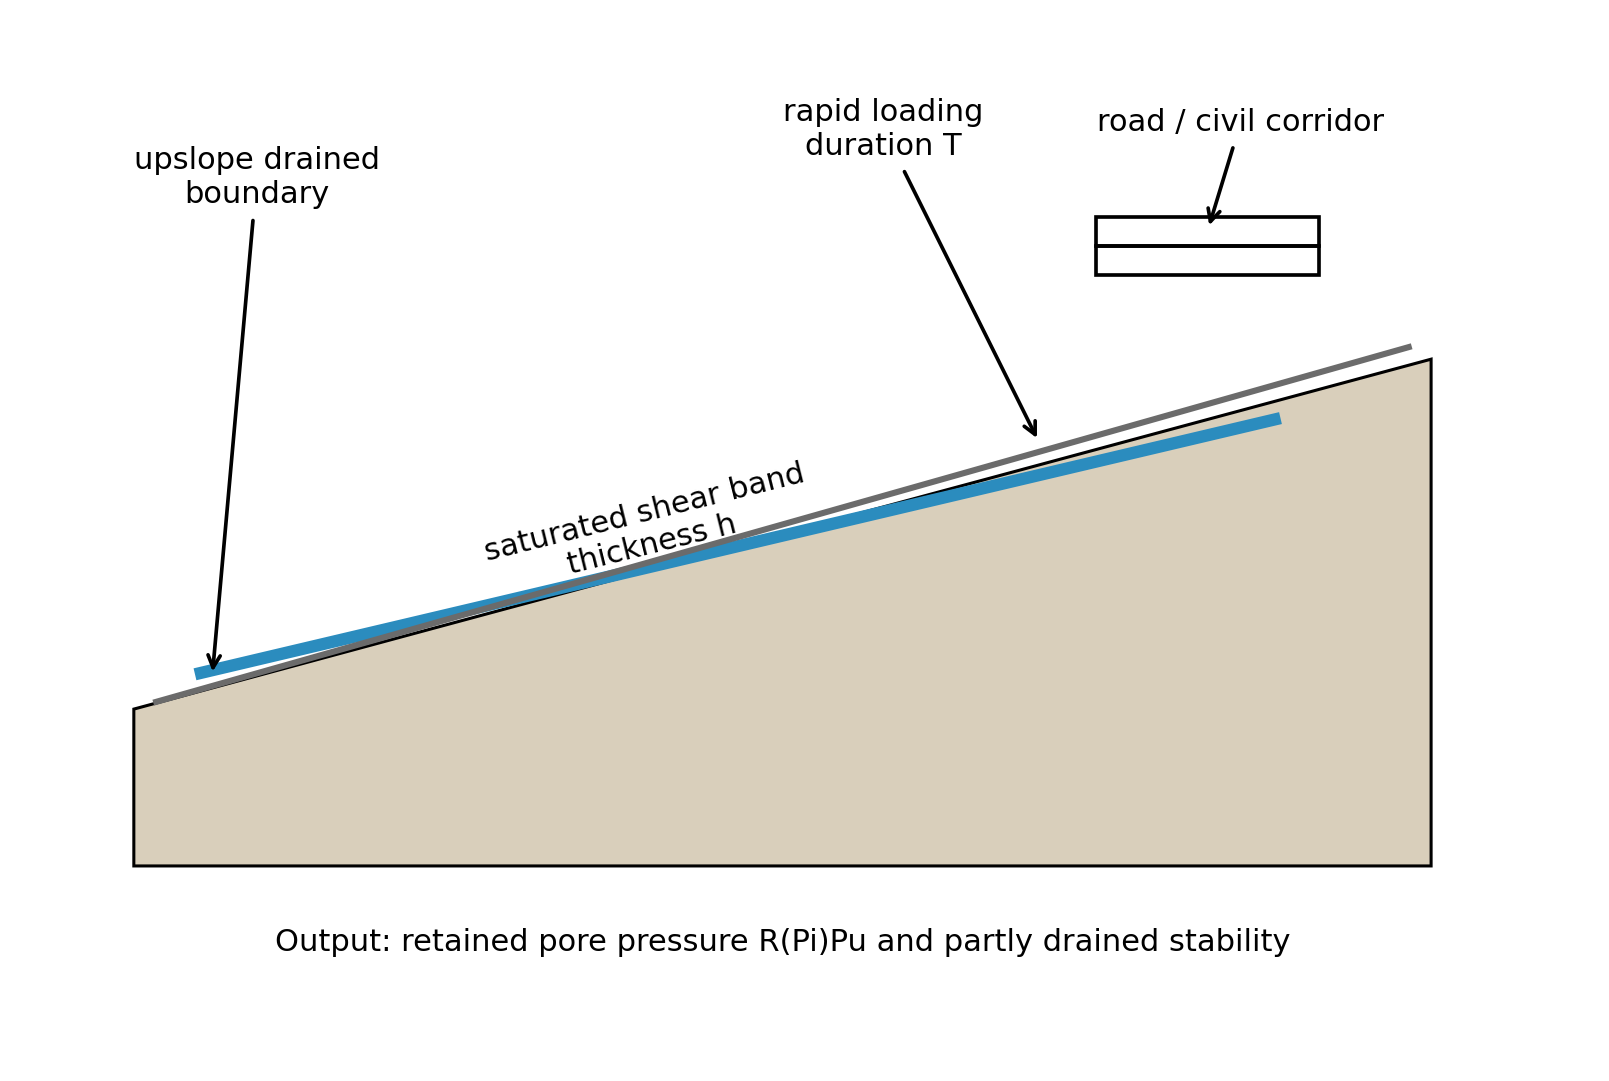
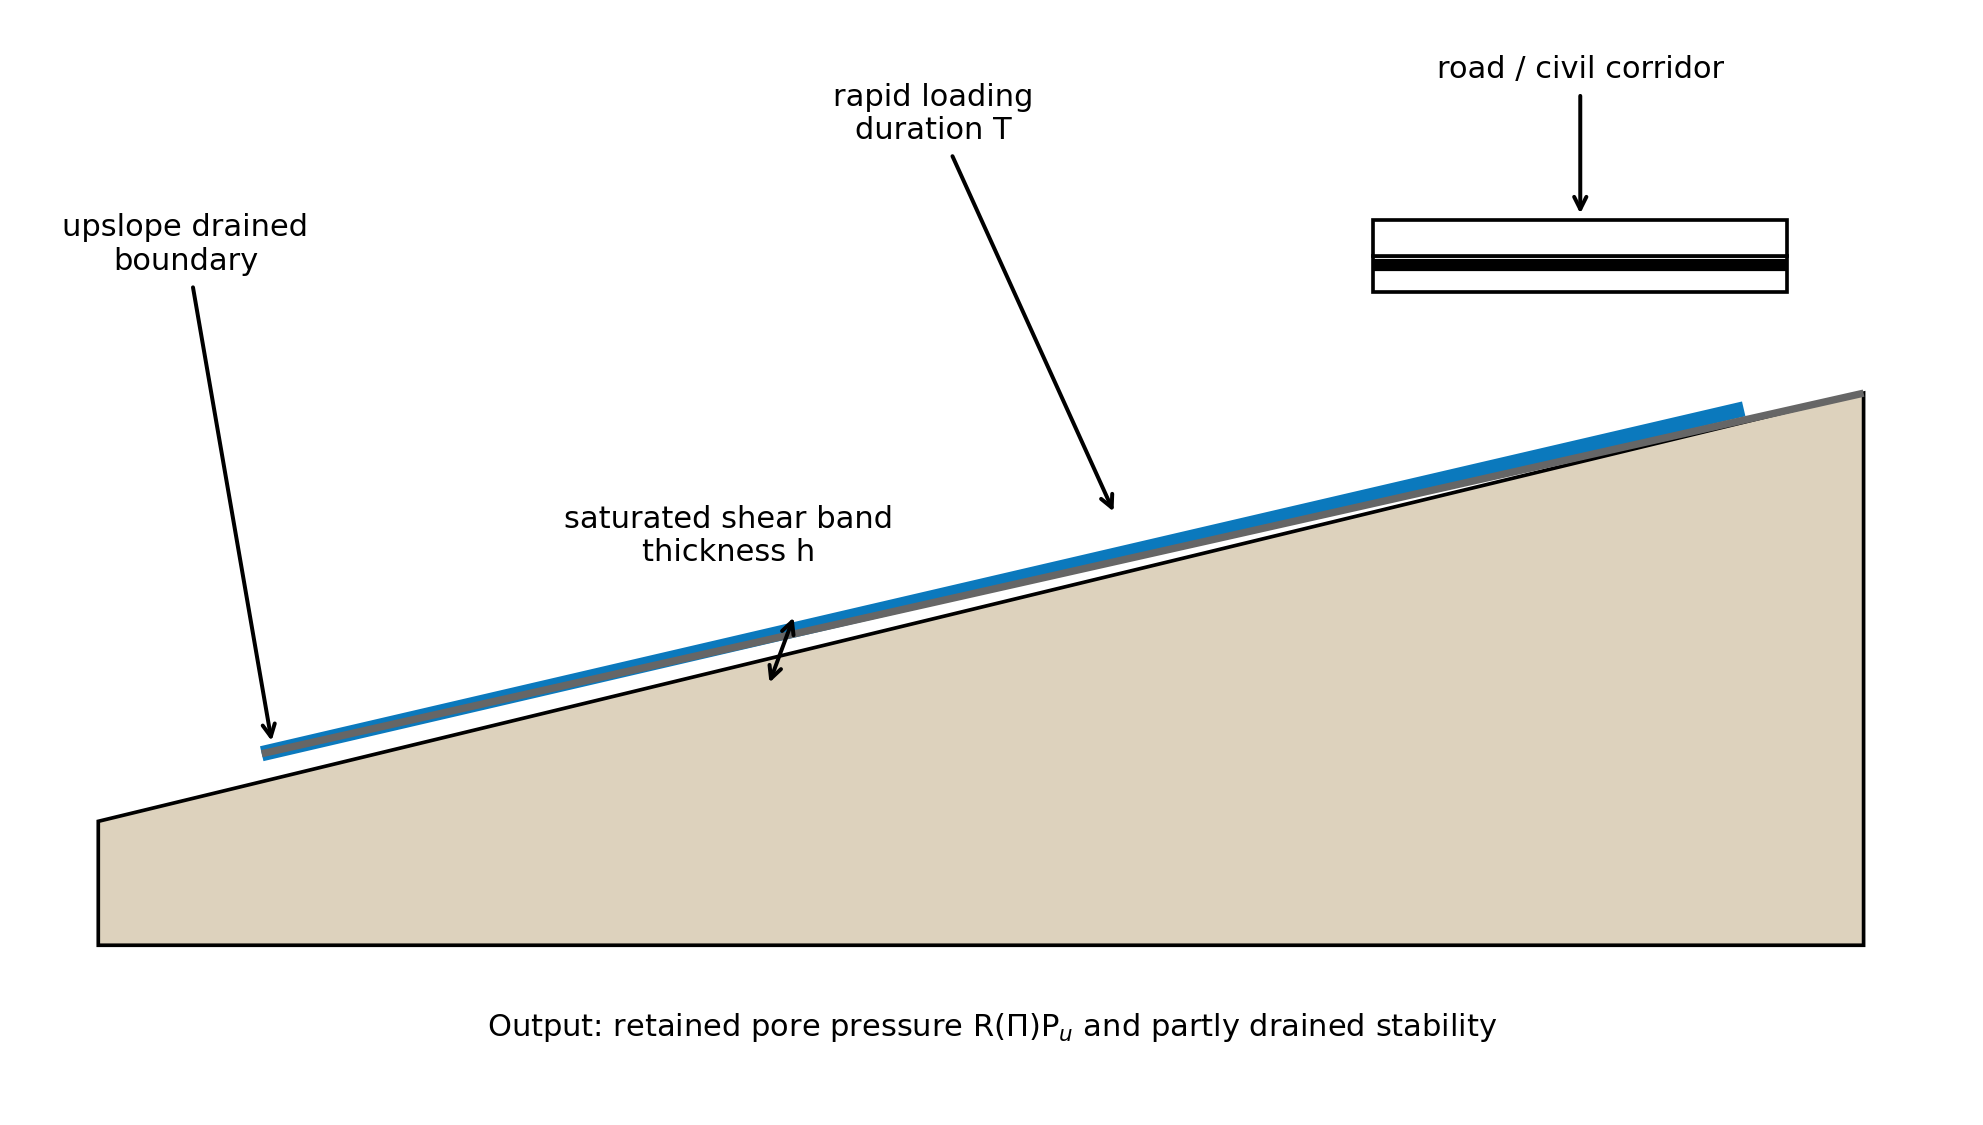
Improve conceptual slope figure

diff --git a/reproduce_article_123.py b/reproduce_article_123.py
@@ -257,20 +257,28 @@ def save_csv(data: dict[str, pd.DataFrame]) -> None:
 def make_figures(data: dict[str, pd.DataFrame]) -> None:
     FIG_OUT.mkdir(exist_ok=True)
 
-    fig, ax = plt.subplots(figsize=(7.2, 4.8), dpi=220, constrained_layout=True)
-    slope = Polygon([[0.5, 0.8], [6.3, 0.8], [6.3, 2.9], [0.5, 1.45]], closed=True, facecolor="#d9cfbb", edgecolor="black", lw=1.0)
+    fig, ax = plt.subplots(figsize=(8.9, 5.0), dpi=220, constrained_layout=True)
+    slope = Polygon(
+        [[0.35, 0.70], [8.45, 0.70], [8.45, 3.15], [0.35, 1.25]],
+        closed=True,
+        facecolor="#ddd2bd",
+        edgecolor="black",
+        lw=1.2,
+    )
     ax.add_patch(slope)
-    ax.plot([0.8, 5.6], [1.60, 2.65], color="#2b8cbe", lw=4)
-    ax.plot([0.6, 6.2], [1.48, 2.95], color="#6b6b6b", lw=2)
-    ax.add_patch(Rectangle((4.8, 3.25), 1.0, 0.12, facecolor="none", edgecolor="black", lw=1.2))
-    ax.add_patch(Rectangle((4.8, 3.37), 1.0, 0.12, facecolor="none", edgecolor="black", lw=1.2))
-    ax.annotate("upslope drained\nboundary", xy=(0.85, 1.58), xytext=(1.05, 3.55), ha="center", arrowprops=dict(arrowstyle="->", lw=1.2))
-    ax.annotate("rapid loading\nduration T", xy=(4.55, 2.55), xytext=(3.85, 3.75), ha="center", arrowprops=dict(arrowstyle="->", lw=1.2))
-    ax.annotate("road / civil corridor", xy=(5.3, 3.43), xytext=(5.45, 3.85), ha="center", arrowprops=dict(arrowstyle="->", lw=1.2))
-    ax.text(2.8, 2.20, "saturated shear band\nthickness h", rotation=14, ha="center", va="center")
-    ax.text(3.4, 0.45, "Output: retained pore pressure R(Pi)Pu and partly drained stability", ha="center")
-    ax.set_xlim(0, 7)
-    ax.set_ylim(0, 4.3)
+    ax.plot([1.10, 7.90], [1.55, 3.08], color="#0b79bd", lw=5.0, solid_capstyle="butt")
+    ax.plot([1.10, 8.45], [1.55, 3.15], color="#666666", lw=2.4, solid_capstyle="butt")
+    ax.add_patch(Rectangle((6.20, 3.60), 1.90, 0.16, facecolor="white", edgecolor="black", lw=1.2))
+    ax.add_patch(Rectangle((6.20, 3.76), 1.90, 0.16, facecolor="white", edgecolor="black", lw=1.2))
+    ax.plot([6.20, 8.10], [3.72, 3.72], color="black", lw=4.0, solid_capstyle="butt")
+    ax.annotate("upslope drained\nboundary", xy=(1.15, 1.58), xytext=(0.75, 3.70), ha="center", arrowprops=dict(arrowstyle="->", lw=1.3))
+    ax.annotate("rapid loading\nduration T", xy=(5.02, 2.60), xytext=(4.18, 4.28), ha="center", arrowprops=dict(arrowstyle="->", lw=1.3))
+    ax.annotate("road / civil corridor", xy=(7.15, 3.92), xytext=(7.15, 4.55), ha="center", arrowprops=dict(arrowstyle="->", lw=1.3))
+    ax.annotate("", xy=(3.55, 2.18), xytext=(3.42, 1.84), arrowprops=dict(arrowstyle="<->", lw=1.3))
+    ax.text(3.24, 2.38, "saturated shear band\nthickness h", ha="center", va="bottom")
+    ax.text(4.45, 0.30, r"Output: retained pore pressure R($\Pi$)P$_u$ and partly drained stability", ha="center")
+    ax.set_xlim(0, 8.9)
+    ax.set_ylim(0, 4.8)
     ax.axis("off")
     fig.savefig(FIG_OUT / "figure_1_conceptual_slope.png", bbox_inches="tight", facecolor="white")
     plt.close(fig)